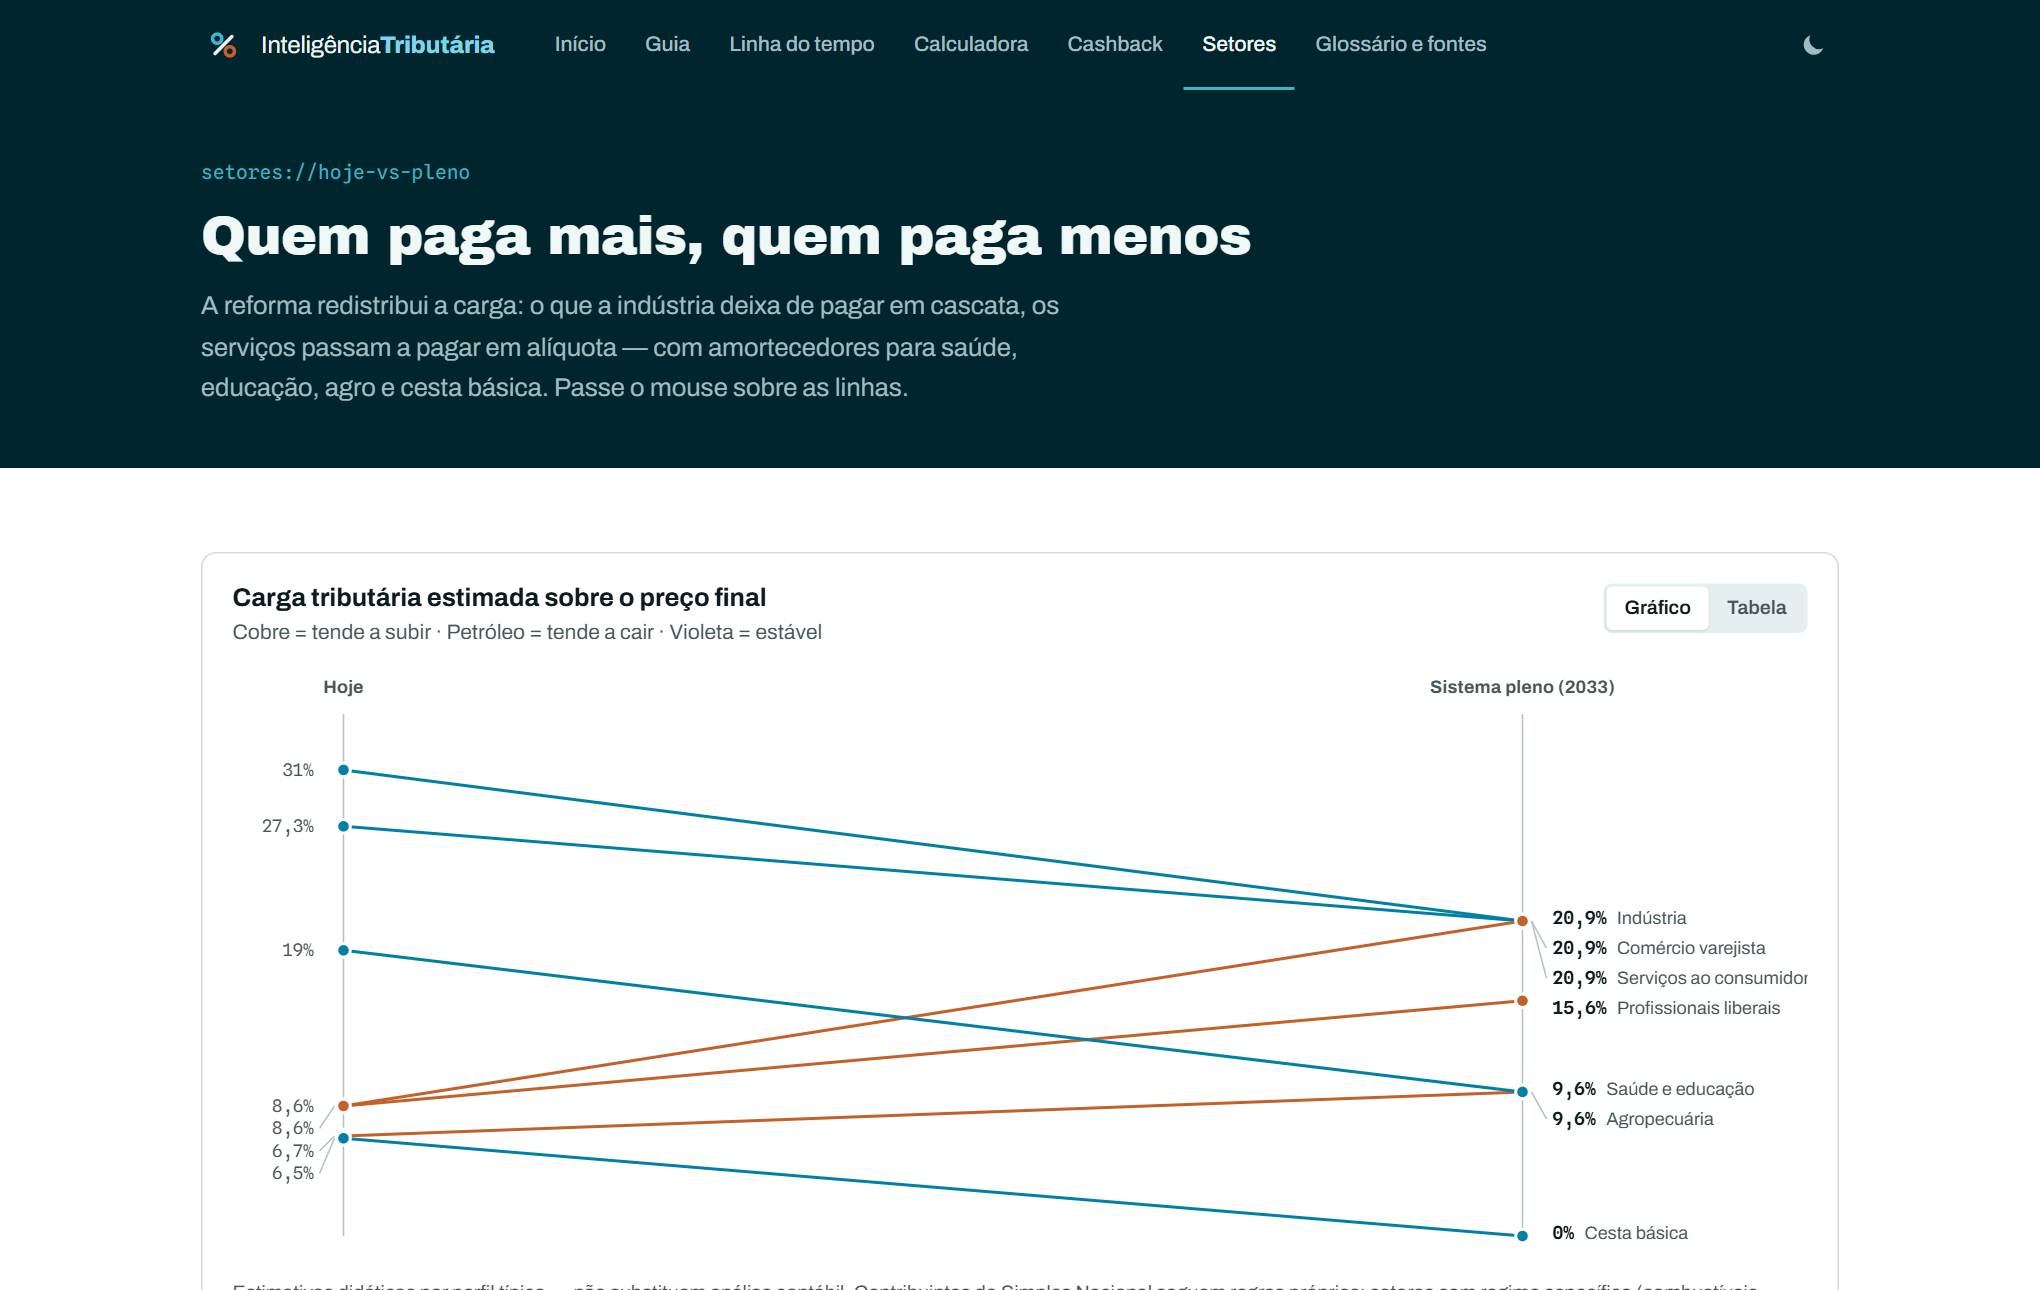
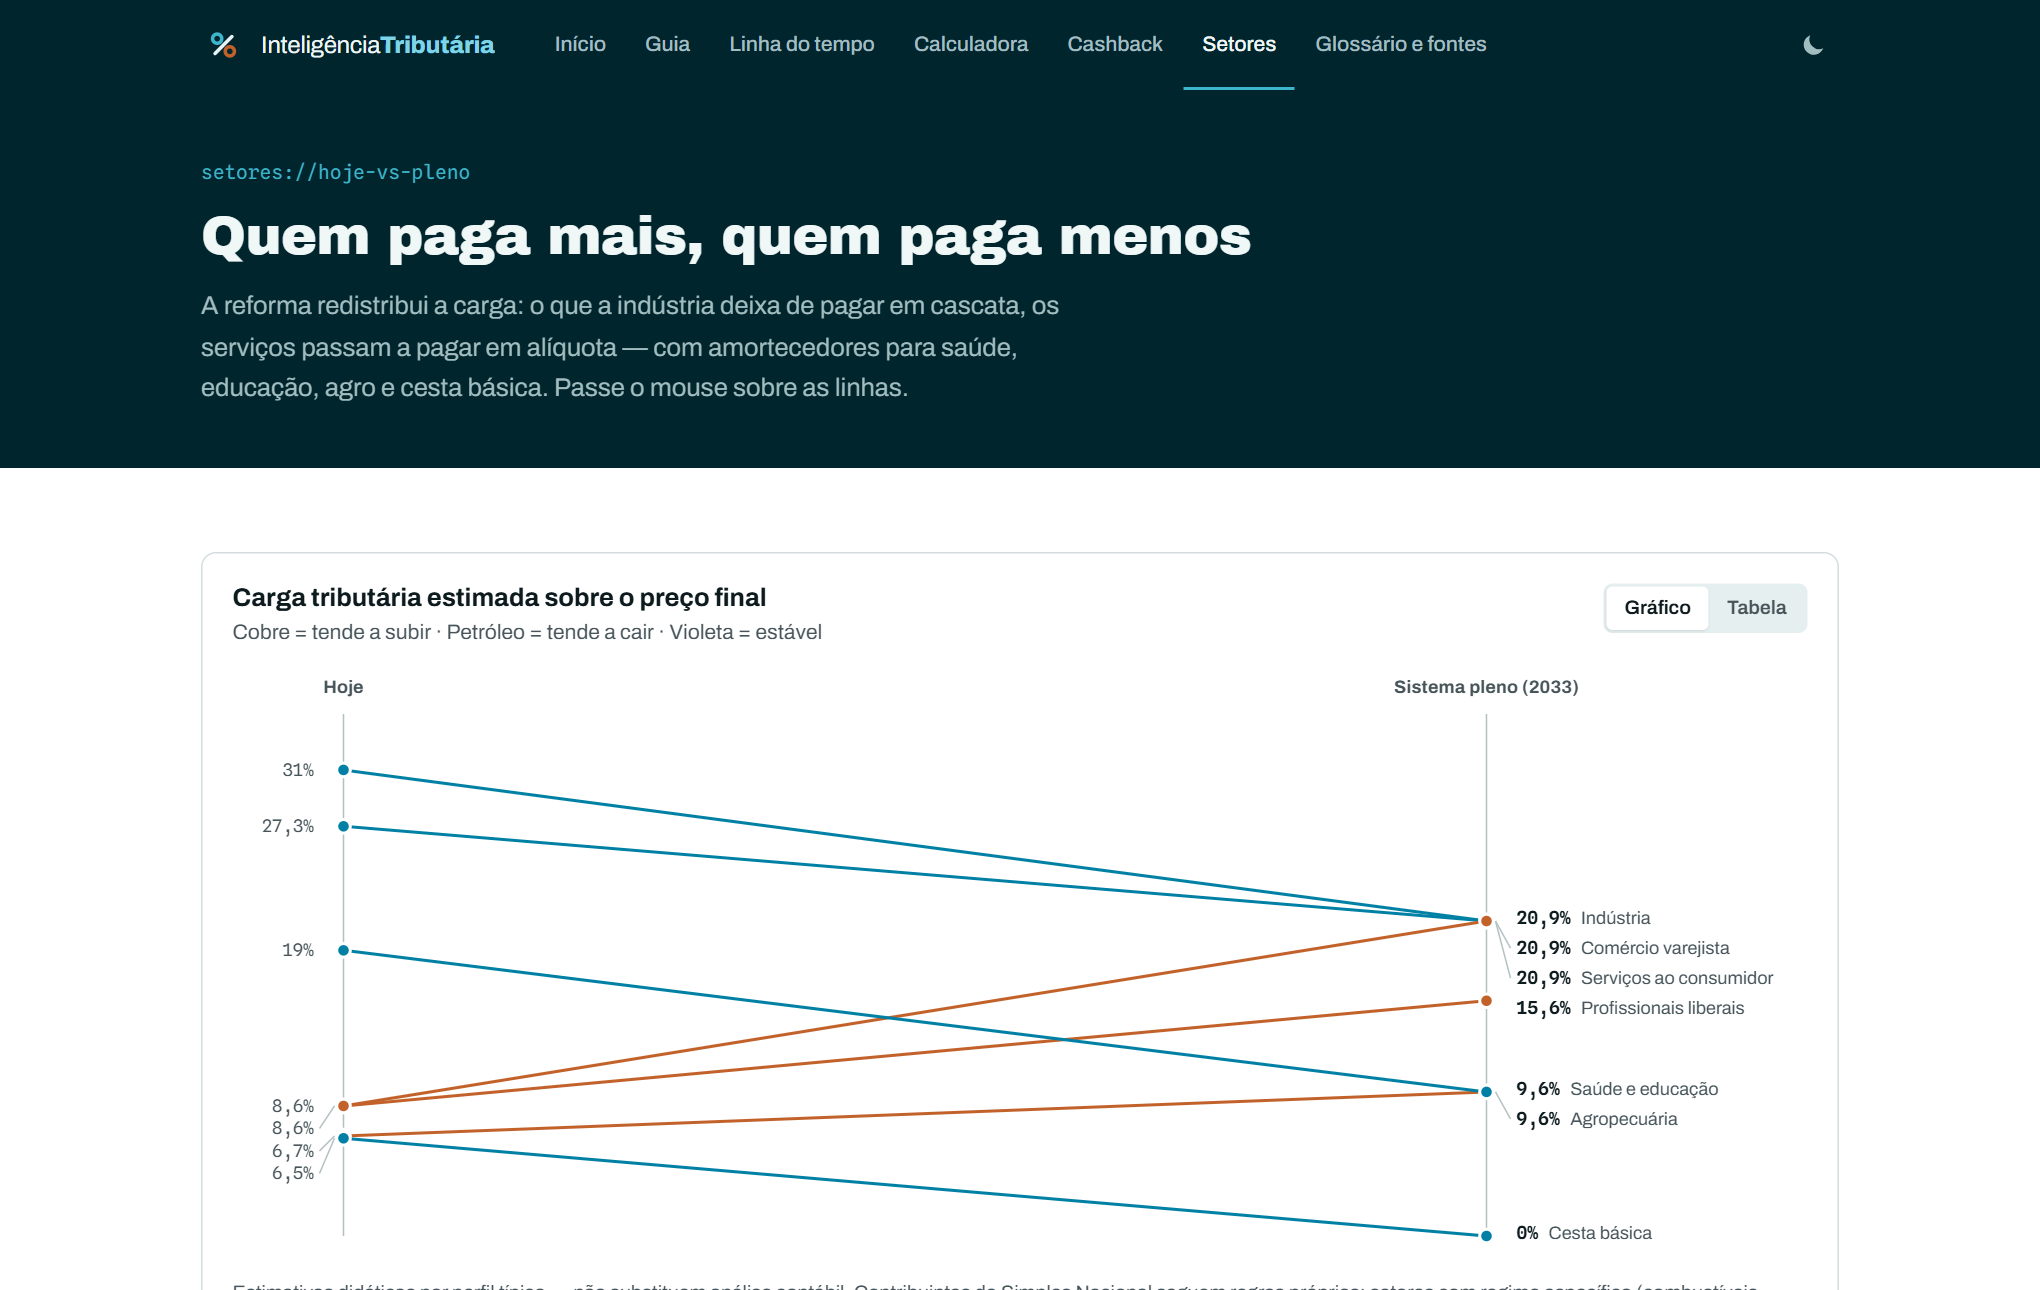
Slope: margem direita maior evita corte do rotulo mais longo; screenshots regeneradas

diff --git a/src/components/charts/Slope.tsx b/src/components/charts/Slope.tsx
@@ -19,7 +19,7 @@ interface Props {
   ativo?: string | null
 }
 
-const M = { topo: 34, base: 18, esq: 74, dir: 190 }
+const M = { topo: 34, base: 18, esq: 74, dir: 214 }
 
 /** Resolve colisões verticais dos rótulos à direita (mín. 20px entre linhas). */
 function espalhar(ys: number[], minGap = 20, topo = 0, base = Infinity) {
